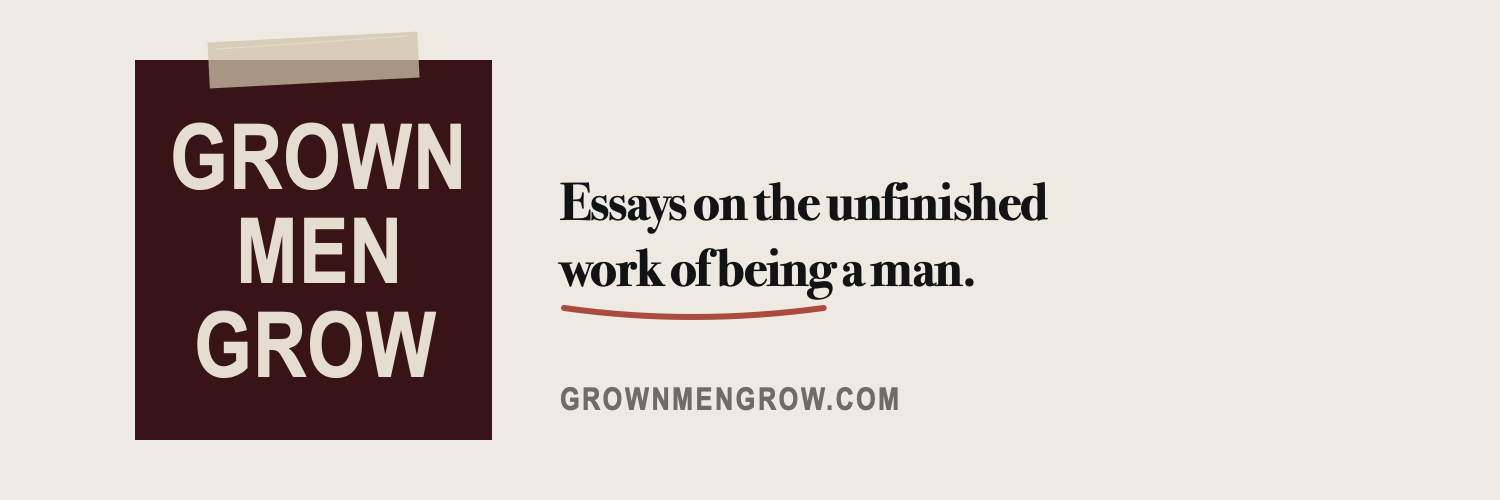
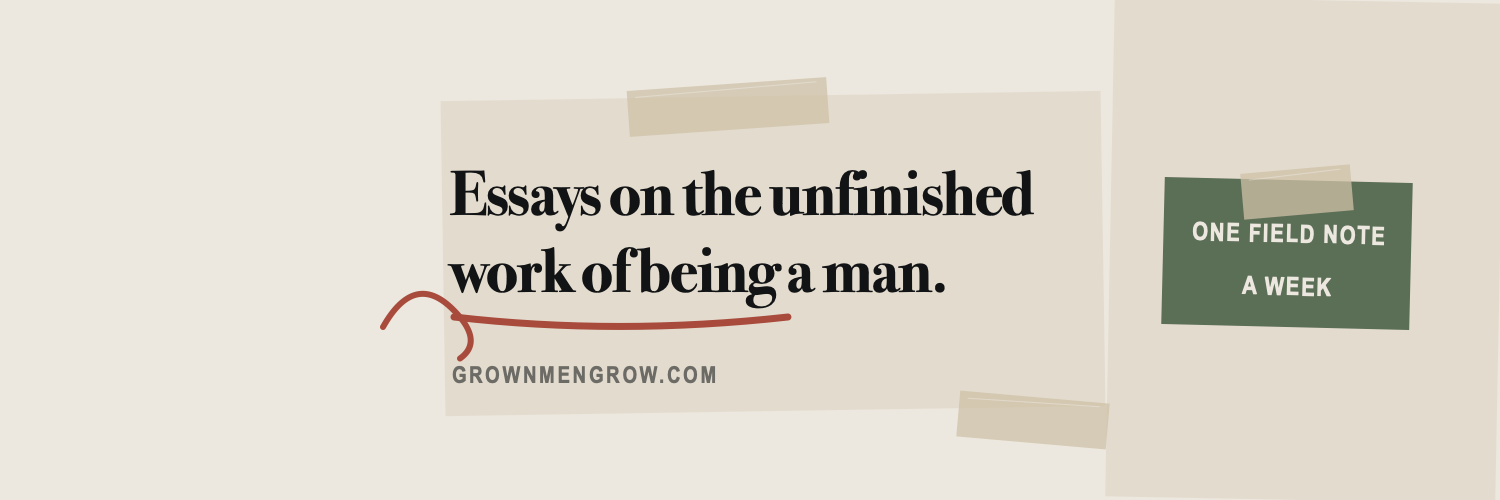
feat: tune profile surfaces into full brand representations
Generalizes taglineBanner with band and type-scale parameters, recomposes
the Bluesky banner inside the ~350px center band its ~4:1 display crop
guarantees visible (replacing the wordmark-panel banner that duplicated
the avatar), and adds a wordmarkStrip render target for Substack's header
wordmark slot (21:4 ratio cap). Banner gate validates five brand banners.

Handoff log records the live external state: Bluesky banner pushed twice
by API; Substack name-attribution fixes (copyright field, name-record
verification, cache-pending byline), email verification, header wordmark,
oxblood accent, and approved-copy introduction.

Docs ride along in the handoff log; no other doc purposes touched.

Changed region(s): [[0.092, 0.06, 0.7667, 0.9], [0.7667, 0.33, 0.9507, 0.66], [0.3987, 0.15, 0.552, 0.27]]

diff --git a/docs/technical/handoff-log.md b/docs/technical/handoff-log.md
@@ -365,3 +365,16 @@ Founder directive: set up API access to the platform stack under the standard cr
 **External state changed:** (1) Ghost custom integration `ghost-admin-api` created in Ghost Admin. (2) Buffer Personal Access key created by the founder on Buffer's new GraphQL API page. (3) Bluesky app password `bluesky-claude-code` created (direct-message access excluded). (4) Cloudflare token `cloudflare-dns-edit` scope-extended to include the `grownmengrow.com` zone (same secret; "Token has been updated"). **Verification:** all four verified live with status-only output — Ghost `/admin/site/` 200, Buffer organizations query 200, Bluesky `createSession` 200 as `grownmengrow.com`, `cf-dns` zone lookup resolving `grownmengrow.com`. Also re-confirmed at the founder's request: the ChatGPT "Grown Men Grow" project remains accessible in the signed-in session with all image-generation chats.
 
 **Repository:** adds `docs/technical/api-access.md` (Keychain map, deliberately keyless surfaces, boundaries). **Open blockers:** none. **Next actions:** optionally add Buffer's MCP server to Claude Code for draft staging; launch remains gated on the founder's Publisher checkout.
+
+## 2026-08-10 — Claude Code: profile surfaces tuned as full brand representations
+
+**Client:** Claude Code (desktop). **Branch:** `feat/profile-surface-tuneup`.
+
+Founder directive: every platform space becomes a good, full representation of the project ("we don't know where any of our users first contact will actually be"), with account settings optimized — and, mid-session, a hard rule restated: the founder's name on no surface.
+
+**External state changed (all live):**
+- **Bluesky:** banner replaced twice by API (app password, no browser) — first with the tagline-led collage (the old wordmark-panel banner sat redundantly behind the wordmark avatar, LinkedIn's problem repeated), then re-composed into a ~350px center band after the founder's screenshot showed Bluesky's ~4:1 display crop cutting it.
+- **Substack:** the founder's name was found publicly attributed ("By Michael Peacock" + copyright + og/title) — publication-voice violation. Copyright owner field → Grown Men Grow (propagated live); profile/account/team name records all verified brand; the residual public byline is Substack's page cache pending expiry, to be re-verified. Account email verified (was blocking all account settings). The "tiny banner" was diagnosed: the wide social banner had been uploaded into the header's small **wordmark** slot — replaced with a purpose-built `substack-wordmark` lettering strip (Substack caps wordmarks at 21:4), header now carries the full-width name. Site accent changed from Substack-default orange to brand oxblood `#3A1518`. Publication Introduction filled from approved copy. Publication cover photo remains unset (no fitting slot found in current settings UI; welcome-page image slot left empty deliberately — the page already carries logo, name, and tagline).
+- **Renderer:** `taglineBanner` generalized (band + type-scale params); new `bluesky-banner` band composition; new `wordmarkStrip` target; banner gate now validates five brand banners.
+
+**Recommendations surfaced to founder:** enable Substack 2FA (their authenticator required) and Bluesky email 2FA. **Open items:** confirm the Substack byline cache expires to "Grown Men Grow"; founder visual check of the new Bluesky crop; Medium/Instagram audited as already brand-correct with no banner surfaces to fix.
